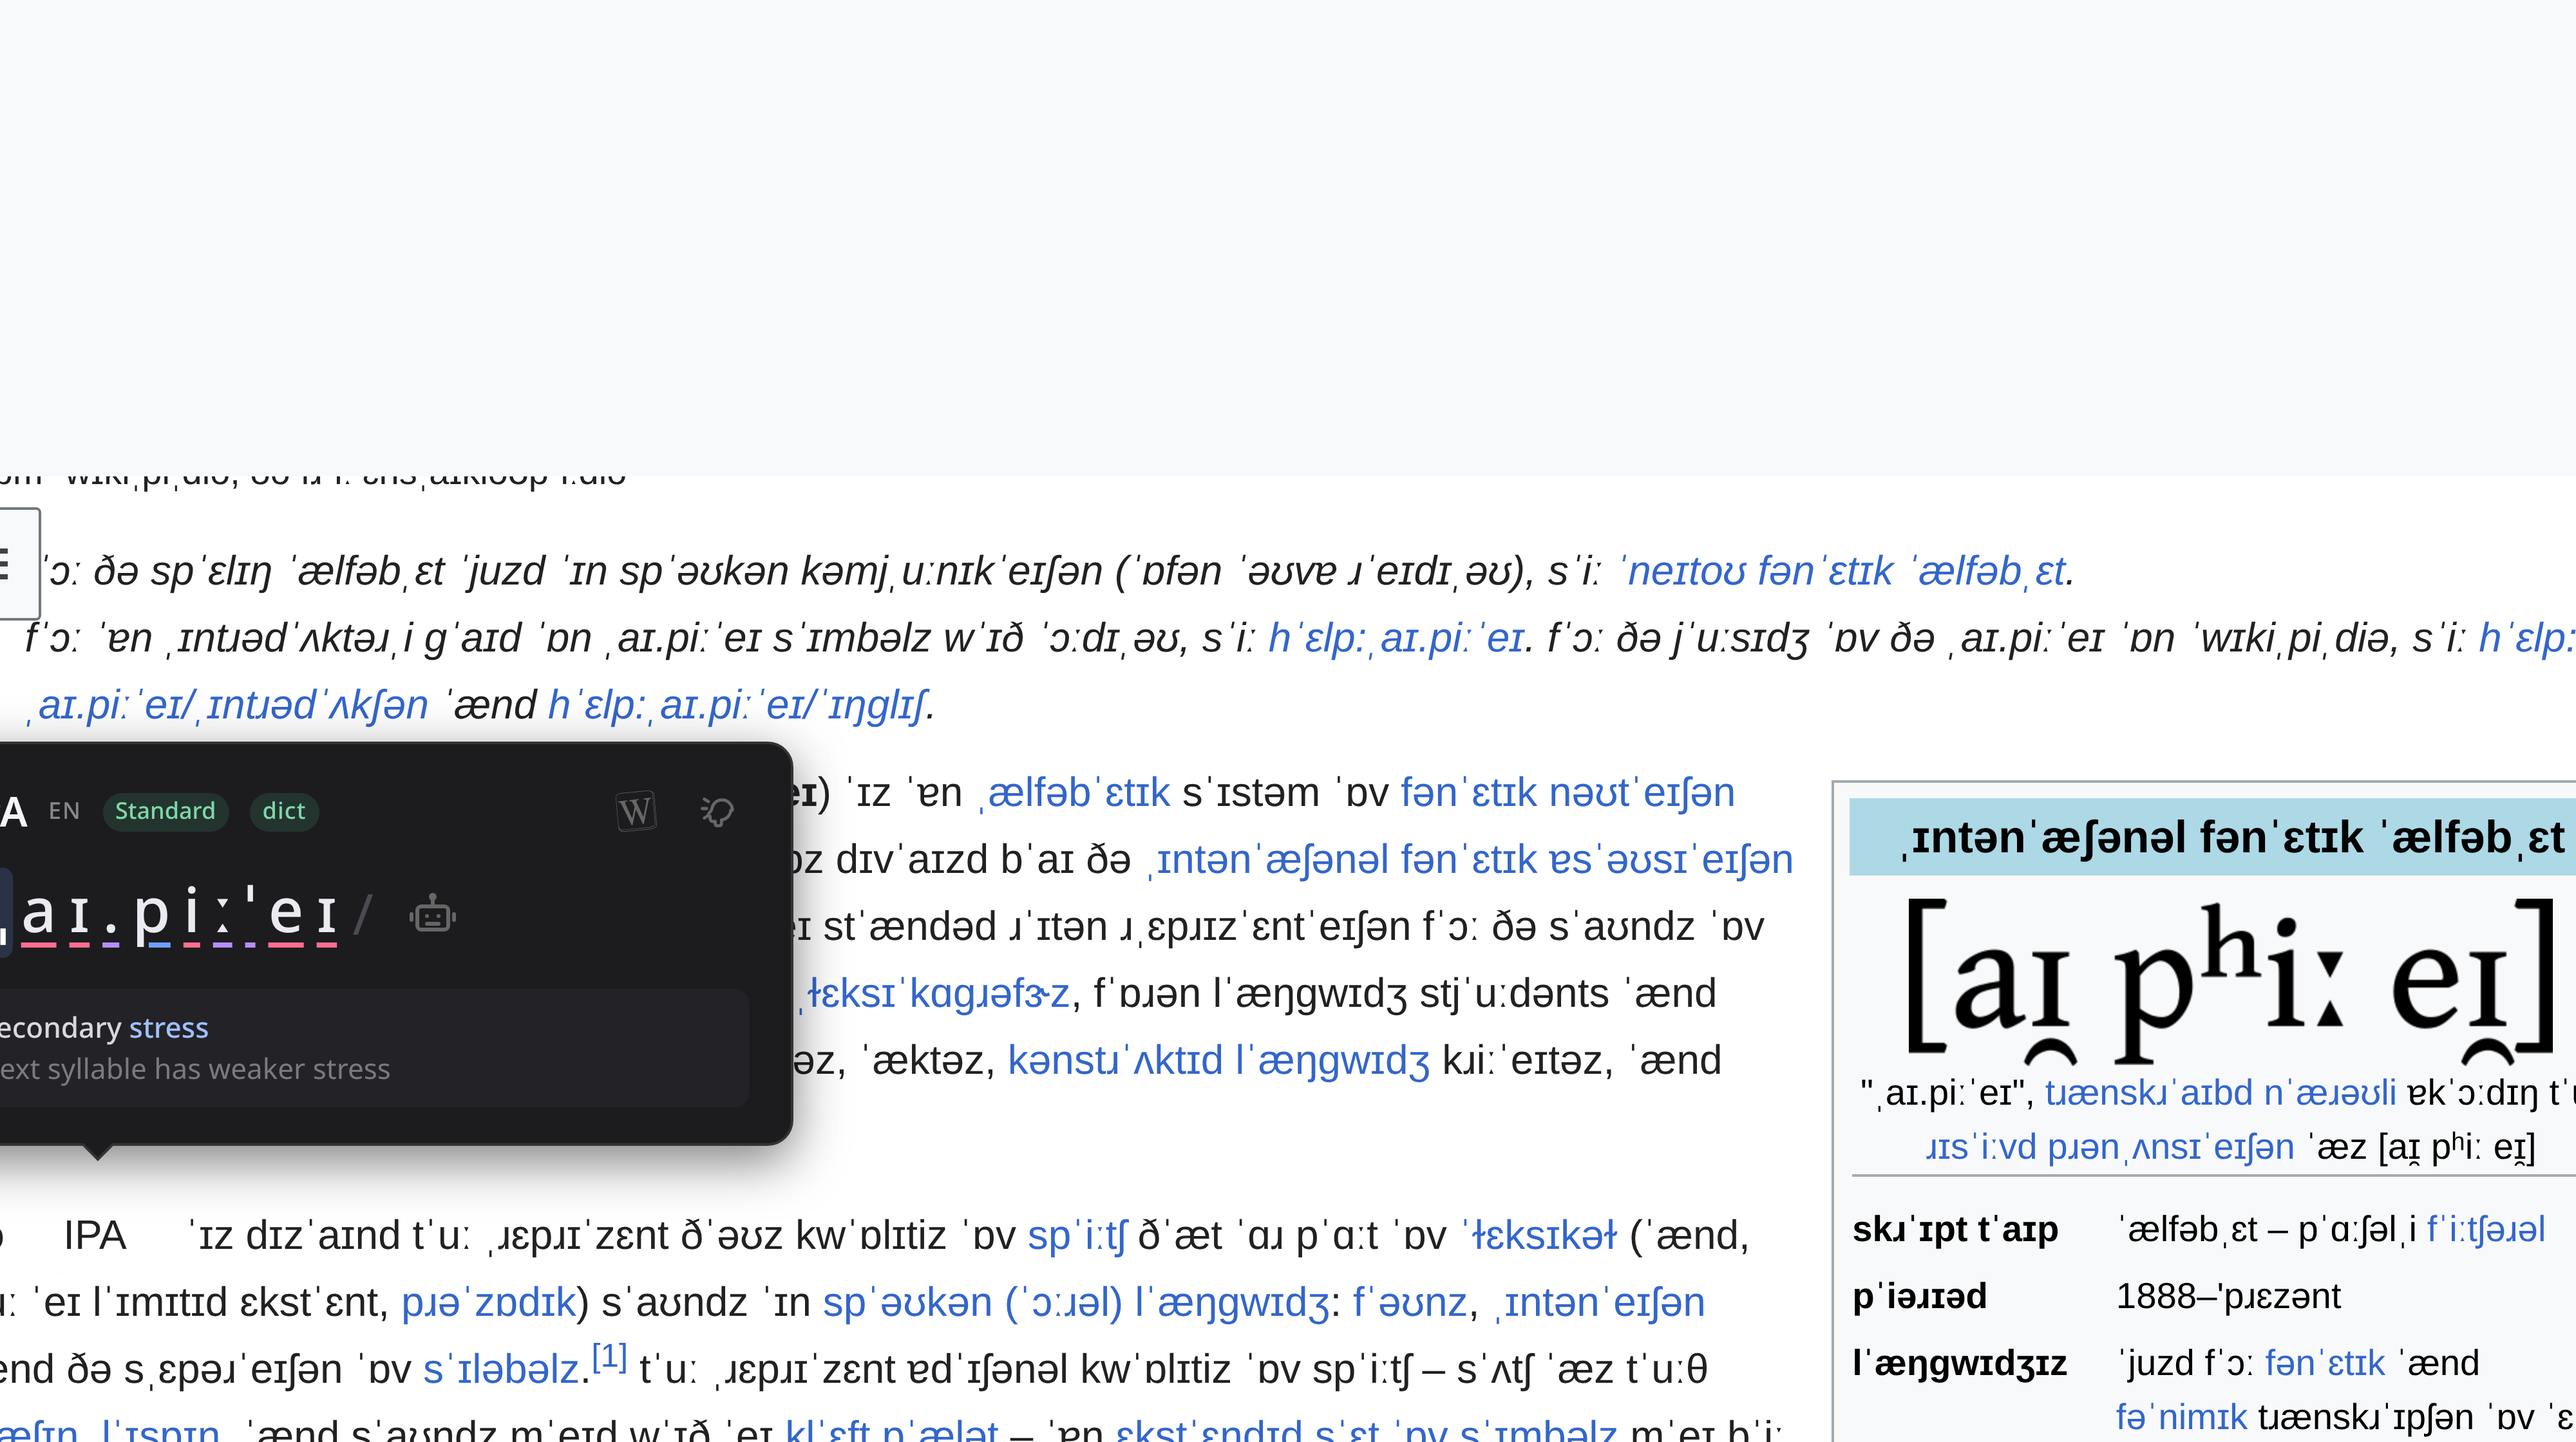
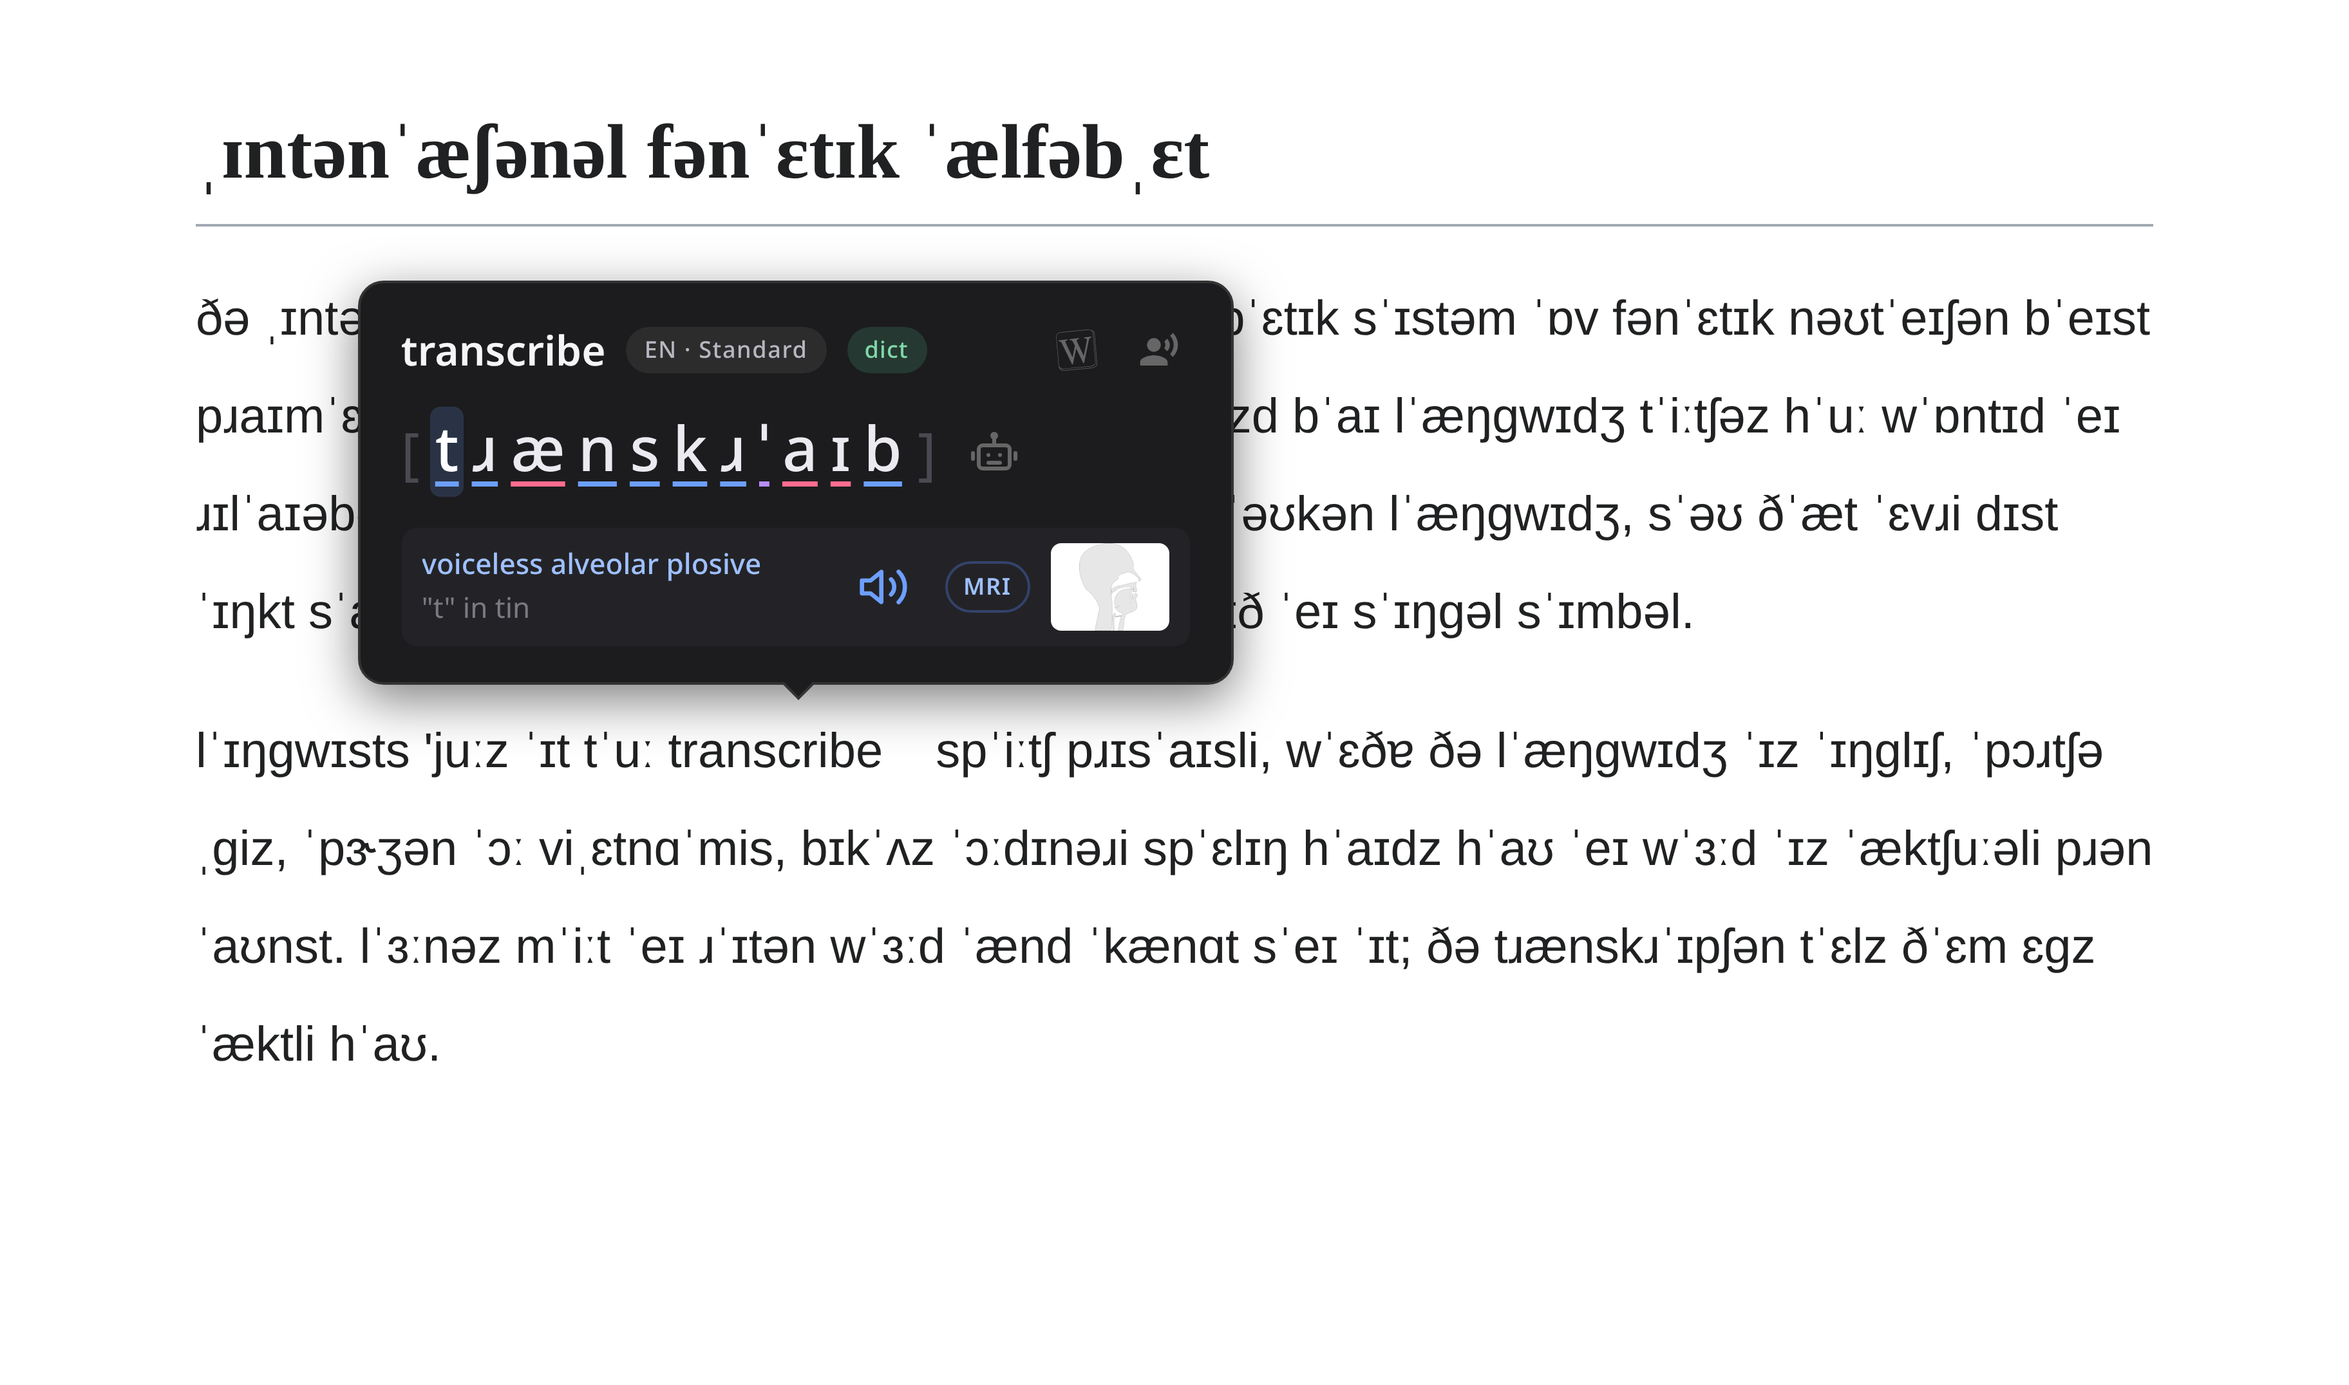
name the extension properly and replace the broken hero image
The toolbar button and about:addons showed the extension as "phonetix" with the
popup titled the placeholder "Default Popup Title". Set the name and the button
tooltip to "Phonetix - Learn and Understand IPA" on both engines (the popup's
<title> is what WXT turns into the browser_action title).

The README hero was a screenshot with the top half blank and the tooltip clipped
off the left edge, so it read as broken. Replace it with a clean, content-tight
capture: the page as running IPA, the hover reveal, and the symbol tooltip open.

diff --git a/wxt.config.ts b/wxt.config.ts
@@ -31,6 +31,10 @@ export default defineConfig({
   modules: ['@wxt-dev/module-svelte'],
   // offscreen is a Chromium-only API; Firefox runs espeak in its background page.
   manifest: ({ browser }) => ({
+    name: 'Phonetix - Learn and Understand IPA',
+    // The toolbar-button tooltip, on both engines (WXT maps action → browser_action
+    // on Firefox MV2). Without this it shipped as the literal "Default Popup Title".
+    action: { default_title: 'Phonetix - Learn and Understand IPA' },
     permissions: browser === 'firefox' ? ['storage'] : ['storage', 'offscreen'],
     host_permissions: ['<all_urls>'],
     // The content script reads the common-word list (sprinkle mode) straight from the

diff --git a/src/entrypoints/popup/index.html b/src/entrypoints/popup/index.html
@@ -3,7 +3,7 @@
   <head>
     <meta charset="UTF-8" />
     <meta name="viewport" content="width=device-width, initial-scale=1.0" />
-    <title>Default Popup Title</title>
+    <title>Phonetix - Learn and Understand IPA</title>
     <meta name="manifest.type" content="browser_action" />
     <link rel="stylesheet" href="~/assets/tailwind.css" />
   </head>
